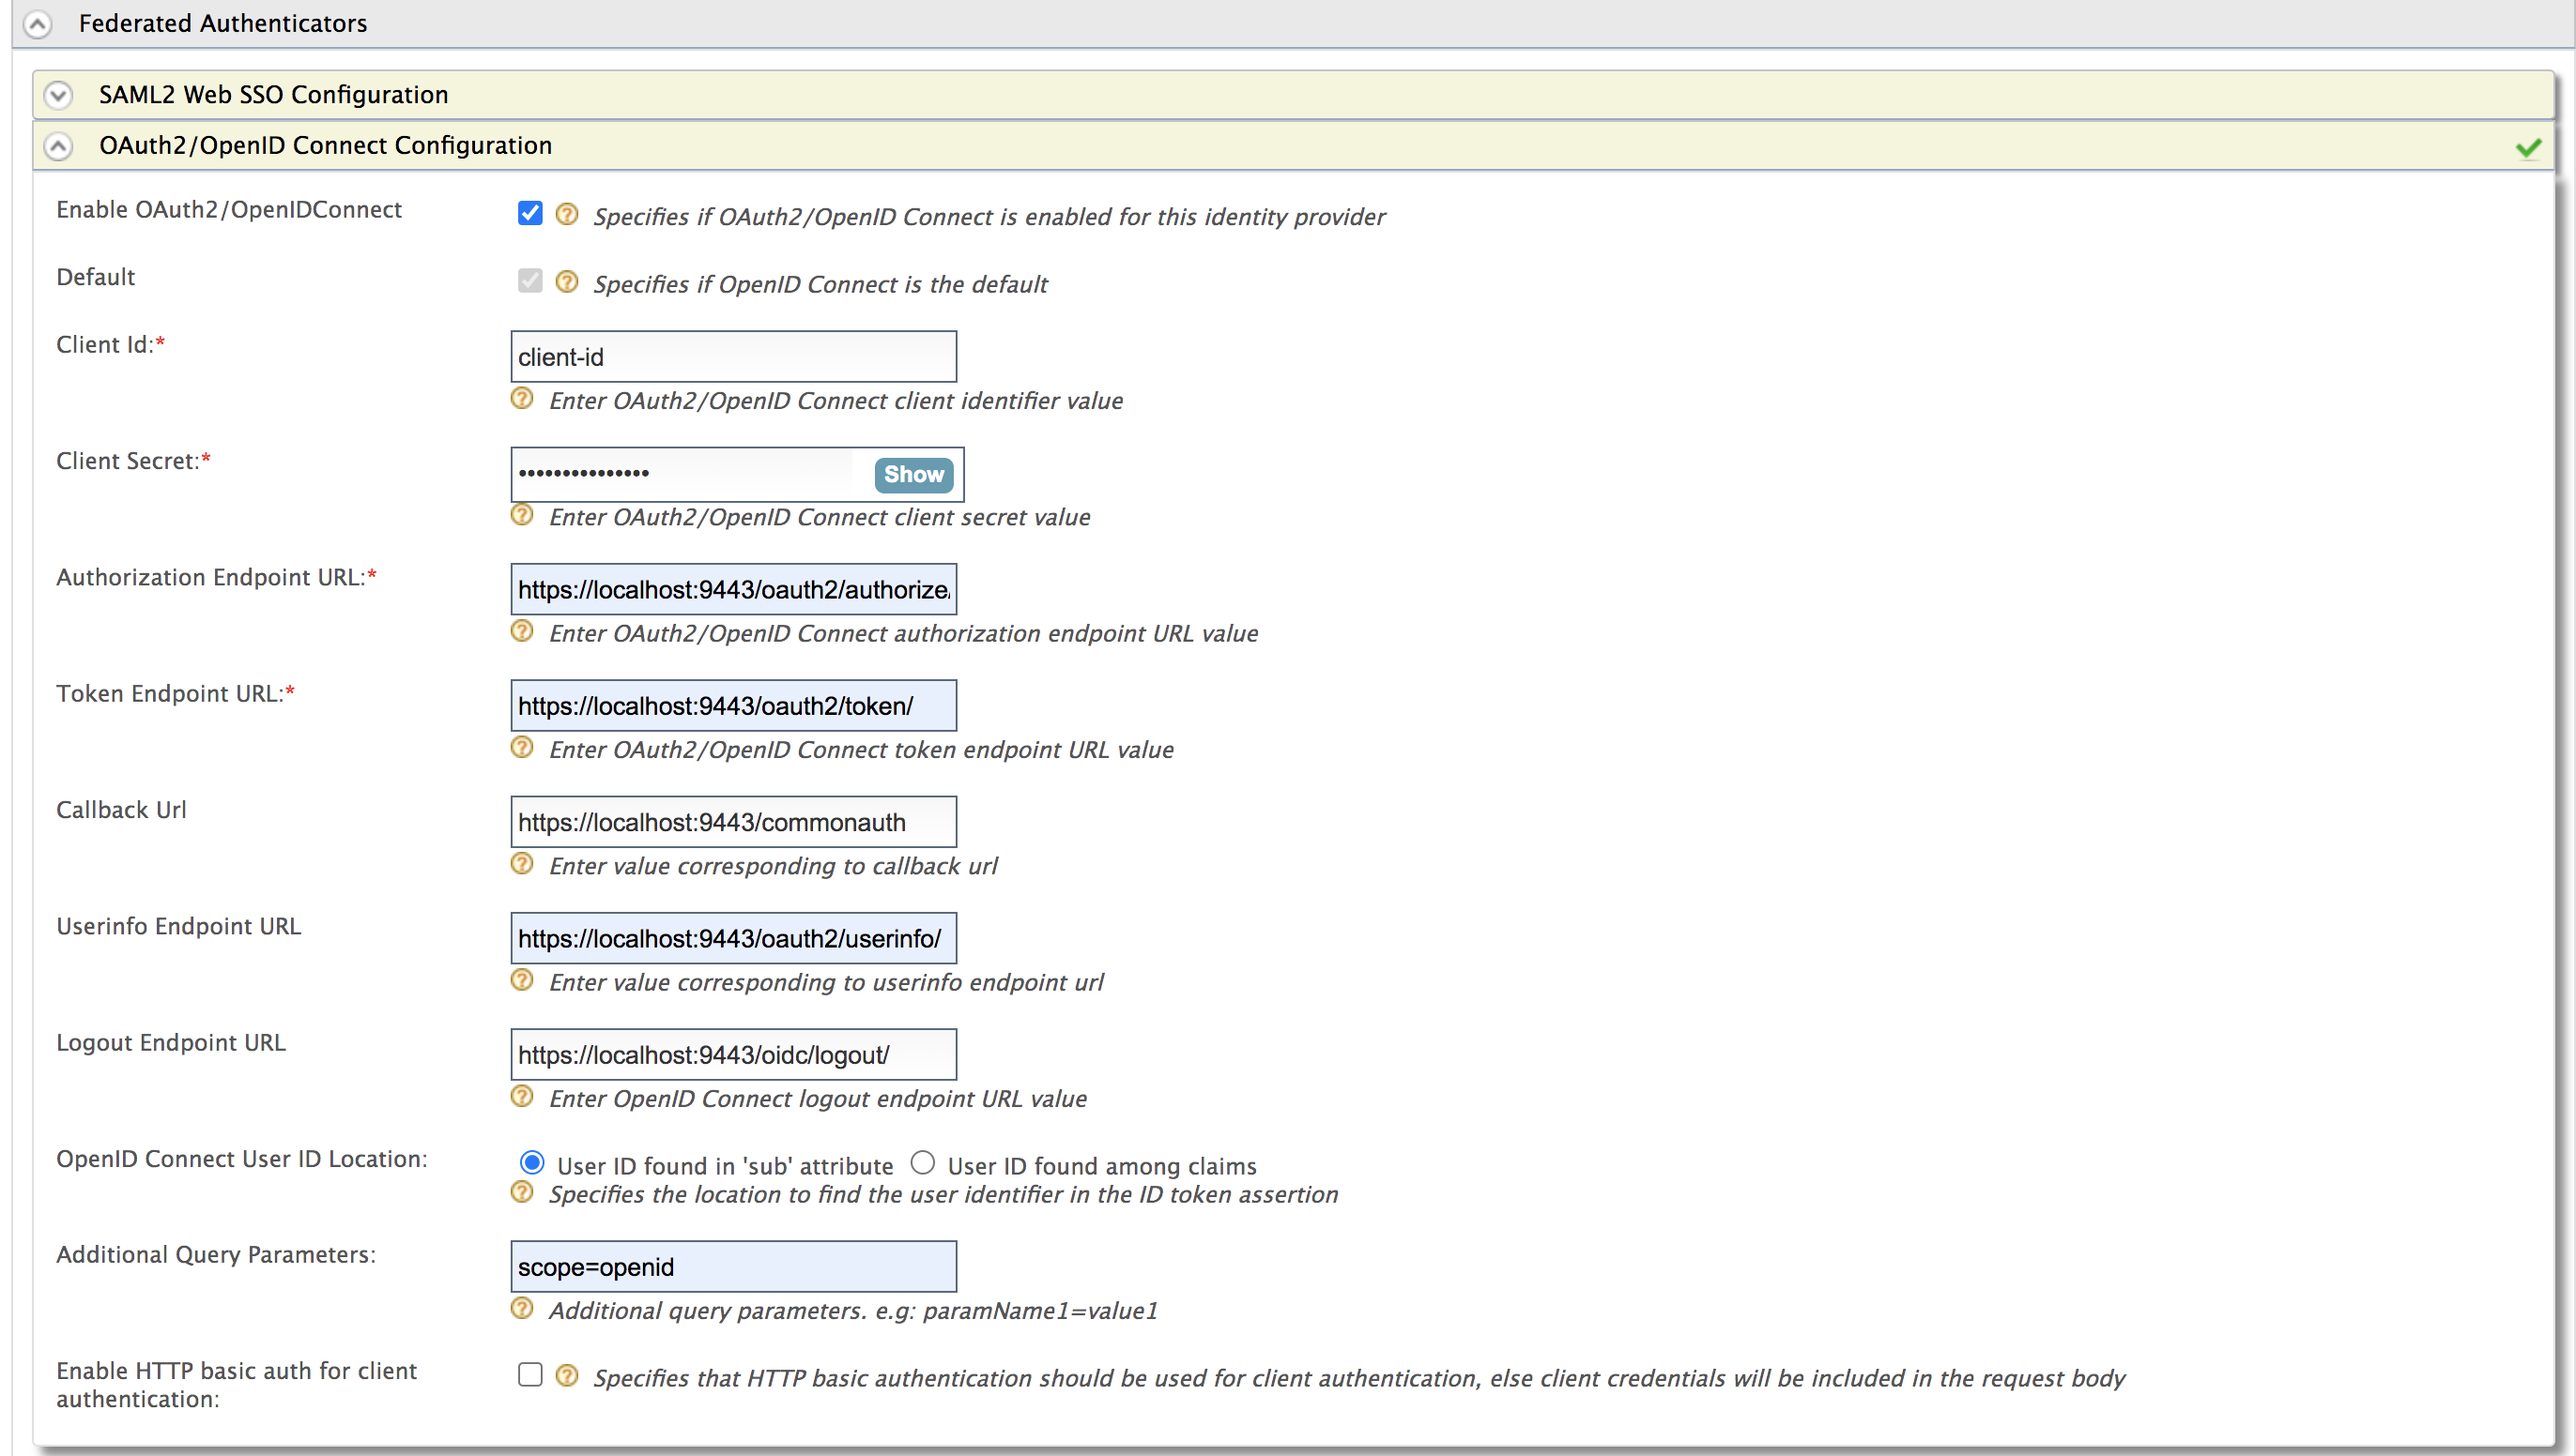
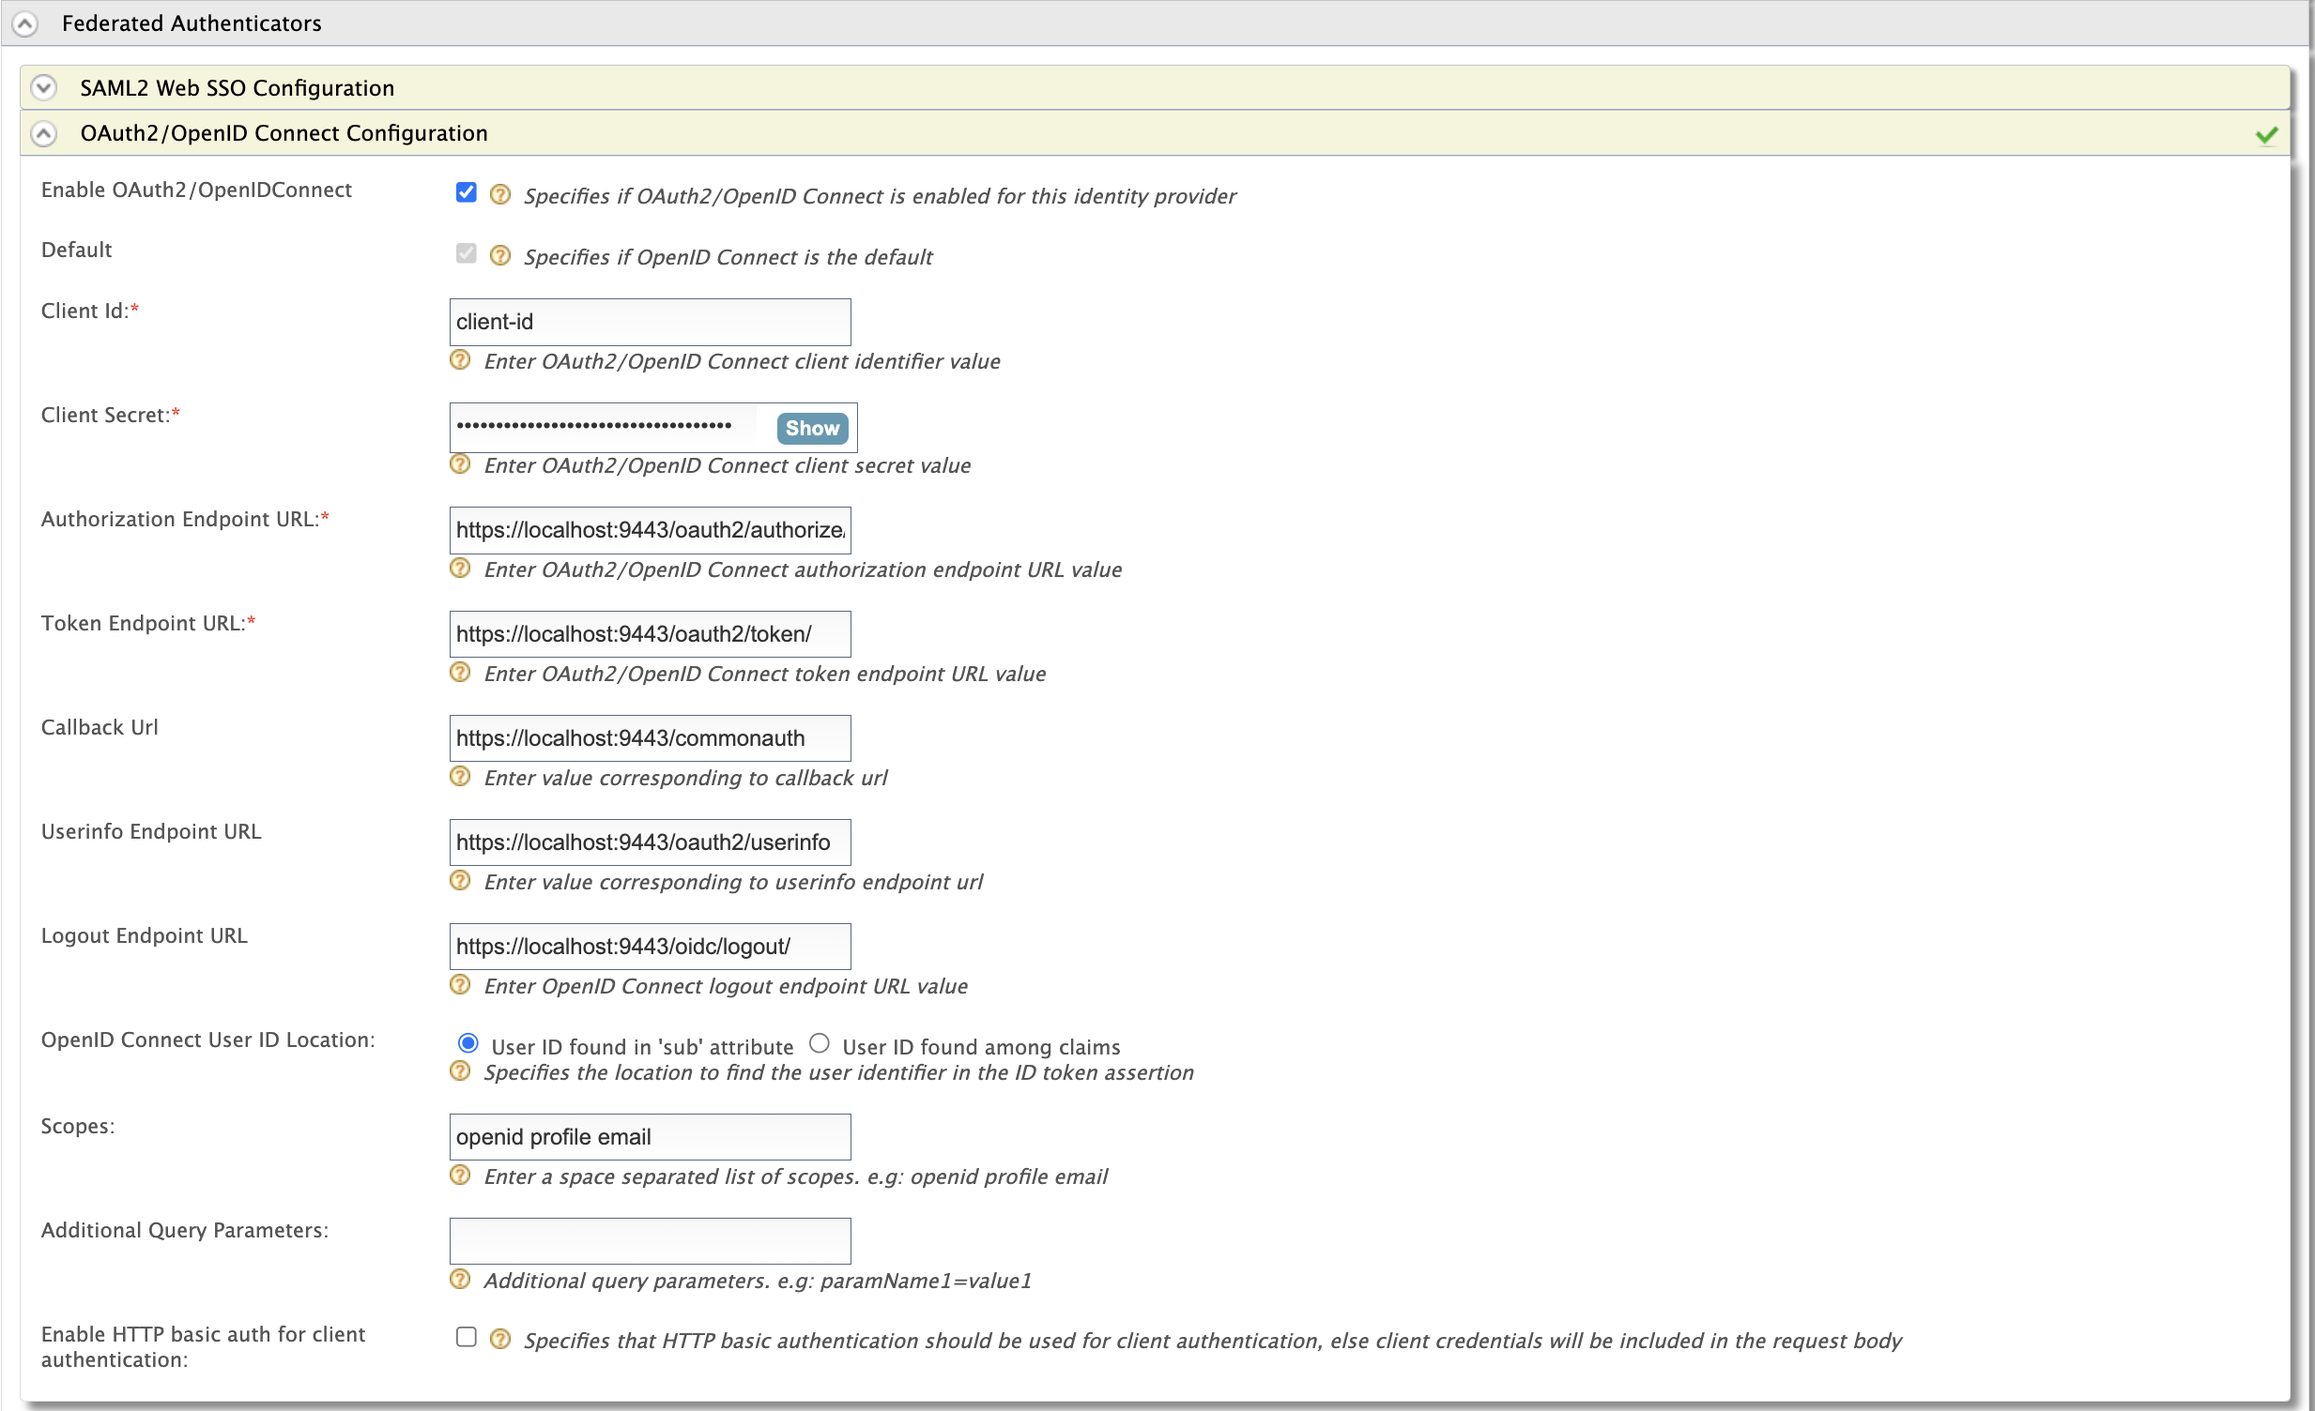
OIDC scopes as a primary field in OIDC IdP

diff --git a/en/docs/guides/identity-federation/configure-oauth2-openid-connect.md b/en/docs/guides/identity-federation/configure-oauth2-openid-connect.md
@@ -111,6 +111,11 @@ processors](TO-DO:{{base_path}}/learn/extension-points-for-oauth#token-persisten
         <td>User ID found in 'sub' attribute</td>
     </tr>
     <tr>
+        <td>Scopes</td>
+        <td>This is a space separated, case-sensitive list of OpenID Connect scopes to request from the identity provider. See the <a href="https://openid.net/specs/openid-connect-core-1_0.html#ScopeClaims">OpenID Connect specification</a> for more information about what scopes can be configured here.</td>
+        <td>openid email profile</td>
+    </tr>
+    <tr>
         <td>Additional Query Parameters</td>
         <td>This is necessary if you are connecting to another Identity Server or application. Sometimes extra parameters are required by this IS or application so these can be specified here.
         <div class="admonition note">
